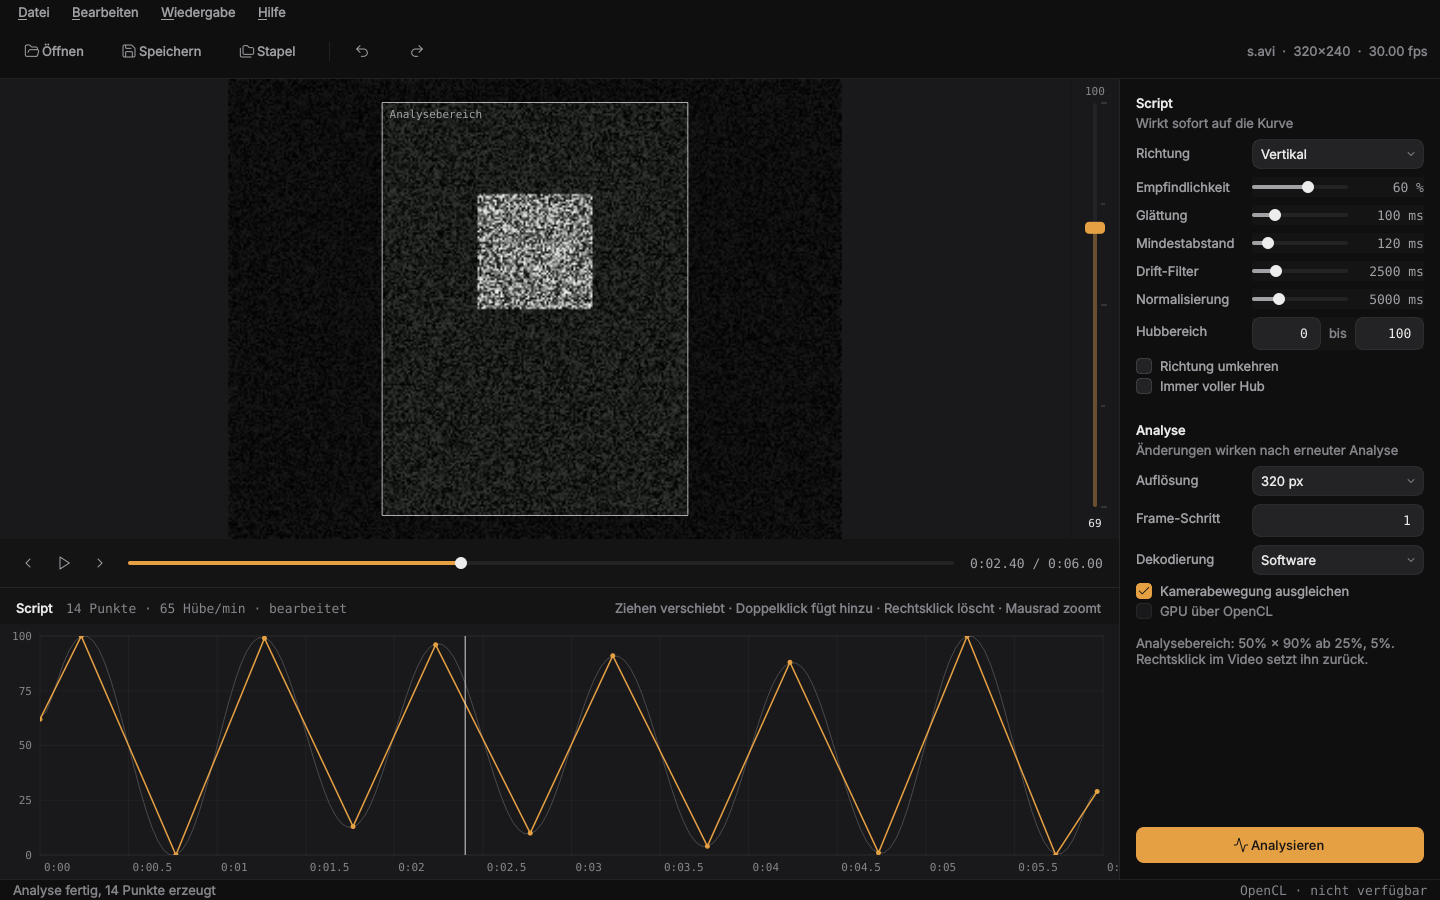
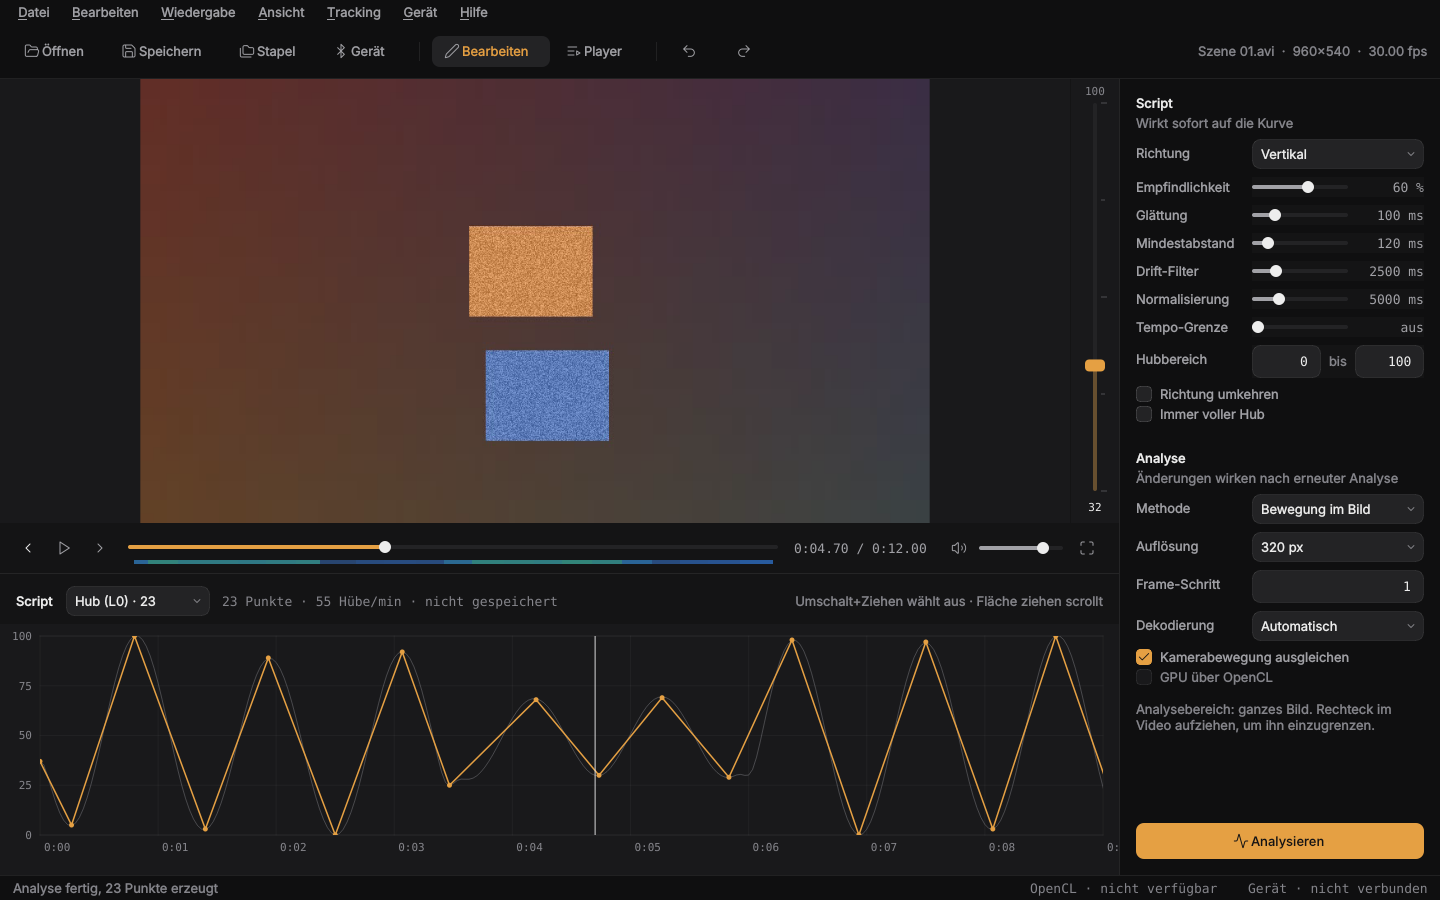
README: aktuelle Screenshots (0.5.0)
Neues Hauptbild (Bearbeiten mit Heatmap und Tempo-Grenze) und drei weitere:
Tracking mit Abschnitt und Kalibrierung, Player mit Playlist, Geräte-Dialog.
Aufgenommen mit selbst erzeugten neutralen Testvideos.

Claude-Session: https://claude.ai/code/session_012kwxq3o6oN4xhTxcku6FJh

diff --git a/README.md b/README.md
@@ -3,7 +3,12 @@
 Kostenlose, quelloffene Software zur **lokalen** Videoanalyse und automatischen
 Erstellung von Funscripts. Keine Cloud, keine Abos, keine API-Kosten.
 
-![Screenshot](docs/screenshot.png)
+![Bearbeiten: analysierte Kurve, Heatmap und Einstellungen](docs/screenshot.png)
+
+| Tracking | Player | Gerät |
+|---|---|---|
+| [![Tracking mit zwei Bereichen, Abschnitt und Tiefen-Kalibrierung](docs/tracking.png)](docs/tracking.png) | [![Player-Modus mit Playlist](docs/player.png)](docs/player.png) | [![Geräte-Dialog mit Simulation](docs/device.png)](docs/device.png) |
+| Bereiche verfolgen, Abschnitte, Kalibrierung „drin/raus“ | Playlist, Videos mit Script nacheinander | Fredorch F21S über Intiface oder Simulation |
 
 Entwickelt und getestet für Nobara Linux (KDE) mit AMD Ryzen 7 3700X und
 Radeon RX 5700 XT – läuft aber auf jedem Linux mit Python ≥ 3.10.
